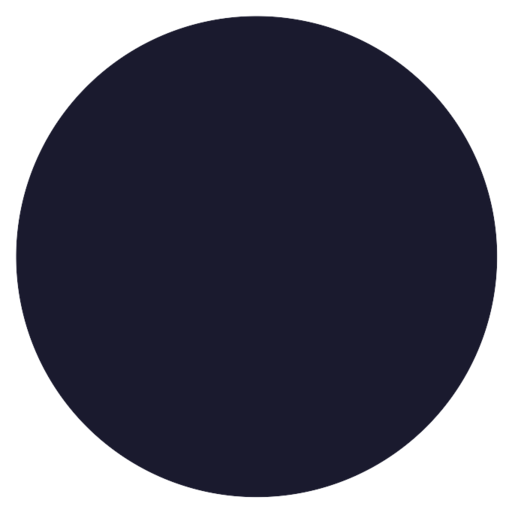
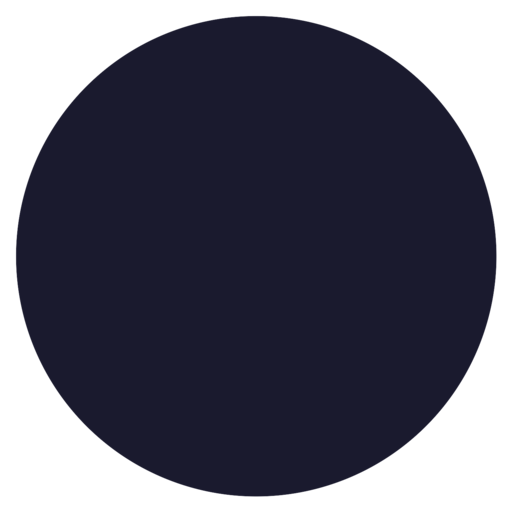
Fix: фавикон с прозрачным фоном для Vercel
- Переконвертированы PNG с прозрачным фоном (-background none)
- Упрощён HTML: только SVG + ICO + apple-touch-icon
- Убраны лишние PNG (16, 32, 48, 64)
- Добавлены .markdownlint.json и .markdownlintignore

diff --git a/index.html b/index.html
@@ -8,10 +8,6 @@
   <!-- Favicons -->
   <link rel="icon" type="image/svg+xml" href="icons/favicon.svg">
   <link rel="icon" type="image/x-icon" href="icons/favicon.ico">
-  <link rel="icon" type="image/png" sizes="16x16" href="icons/favicon-16x16.png">
-  <link rel="icon" type="image/png" sizes="32x32" href="icons/favicon-32x32.png">
-  <link rel="icon" type="image/png" sizes="48x48" href="icons/favicon-48x48.png">
-  <link rel="icon" type="image/png" sizes="64x64" href="icons/favicon-64x64.png">
   <link rel="apple-touch-icon" sizes="180x180" href="icons/apple-touch-icon.png">
   <link rel="manifest" href="icons/site.webmanifest">
   <meta name="theme-color" content="#1a1a2e">
